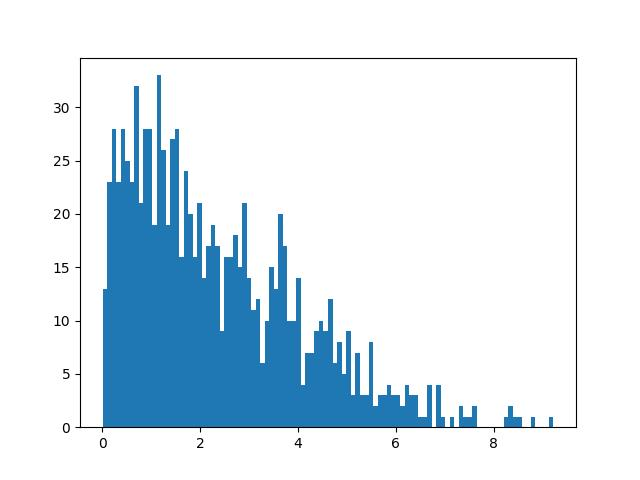
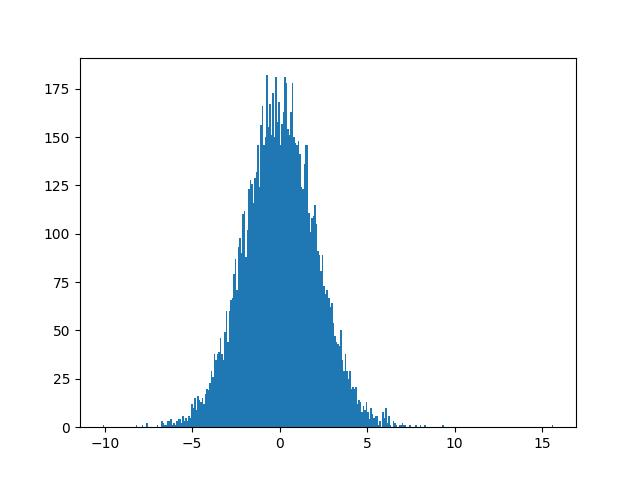
done?

diff --git a/KalmanFilter/plot.py b/KalmanFilter/plot.py
@@ -3,6 +3,7 @@ import matplotlib.pyplot as plt
 from matplotlib.patches import Ellipse
 import matplotlib.transforms as transforms
 import os
+import imageio
 
 
 def plot_uncertainty_ellipse(μ_list, Σ_list, N=100):
@@ -58,12 +59,68 @@ def plot_uncertainty_ellipse(μ_list, Σ_list, N=100):
 def plot_histogram(fname, μ, N):
     if not os.path.exists('./drone1dplots'): os.mkdir('./drone1dplots')
 
-    print(μ.shape)
     μ = np.reshape(μ, (N,))
 
     # plt.set_xlabel('absolute value of error')
     # plt.set_ylabel('')
 
-    plt.hist(μ, 100)
+    # binwidth = 0.5
+    plt.hist(μ, 300)
     plt.savefig(fname)
     plt.show()
+
+
+def plot_2d(x, μ, Σ, t, fname):
+    if not os.path.exists('./drone2dplots'): os.mkdir('./drone2dplots')
+
+    fig, ax = plt.subplots(figsize=(6, 6))
+
+    ax.set_ylim(-5, 5)
+    ax.set_xlim(-5, 5)
+
+    μ = np.reshape(μ[0:2], (2,))
+    Σ = np.reshape(Σ[0:2,0:2], (2,2))
+
+    dataset = np.random.multivariate_normal(np.reshape(μ, (2,)), Σ, 100)
+
+    x1 = dataset[:, 0]
+    y = dataset[:, 1]
+
+    pts = ax.scatter(x1, y, s=0.5)
+
+    ax.scatter(x[0], x[1], s=5, color='blue', label='TruePosition')
+    ax.scatter(μ[0], μ[1], s=5, color='black', label='EstimatedMean')
+
+    ax.set_xlabel(r'$x_t$')
+    ax.set_ylabel(r'$y_t$')
+    # ax.set_title('Uncertainty Ellipses')
+
+    pearson = Σ[0, 1]/np.sqrt(Σ[0, 0] * Σ[1, 1])
+    ell_radius_x = np.sqrt(1 + pearson)
+    ell_radius_y = np.sqrt(1 - pearson)
+
+    ellipse = Ellipse((0, 0), width=ell_radius_x*2, height=ell_radius_y*2, facecolor='none', label='UncertaintyEllipse at t=%d'%t, edgecolor='red')
+
+    scale_x = np.sqrt(Σ[0][0])
+    scale_y = np.sqrt(Σ[1][1])
+    mean_x = μ[0]
+    mean_y = μ[1]
+
+    transf = transforms.Affine2D() \
+                    .rotate_deg(45) \
+                    .scale(scale_x, scale_y) \
+                    .translate(mean_x, mean_y)
+
+    ellipse.set_transform(transf + ax.transData)
+    # print(dataset.shape)
+    pts.set_visible(False)
+    ax.add_patch(ellipse)
+    plt.savefig(fname)
+    plt.show()
+
+
+def create_gif(file_list):
+    with imageio.get_writer('./drone2dplots/x_y.gif', mode='I') as writer:
+        for filename in file_list:
+            image = imageio.imread(filename)
+            writer.append_data(image)

diff --git a/KalmanFilter/drone2d.py b/KalmanFilter/drone2d.py
@@ -1,15 +1,44 @@
 from kalman import KalmanFilter
+from plot import plot_2d, create_gif
 import numpy as np
+import matplotlib.pyplot as plt
 
 
 if __name__ == '__main__':
-    A = np.array([[1, 0, 0.5, 0], [0, 1, 0, 0.5], [0, 0, 1, 0], [0, 0, 0, 1]], dtype=np.float32)
-    B = np.array([[0.5, 0, 1, 0], [0, 0.5, 0, 1]], dtype=np.float32)
-    R = np.dot(np.array([[0.5, 0, 1, 0], [0, 0.5, 0, 1]]), np.array([[0.5, 0, 1, 0], [0, 0.5, 0, 1]]).T)
-    C = np.array([[1], [1], [0], [0]], dtype=np.float32)
-    Q = np.array()
+    A = np.array([[1, 0, 1, 0], [0, 1, 0, 1], [0, 0, 1, 0], [0, 0, 0, 1]], dtype=np.float32)
+    B = np.array([[0.5, 0], [0, 0.5], [1, 0], [0, 1]], dtype=np.float32)
+    R = np.dot(np.array([[0.5, 0], [0, 0.5], [1, 0], [0, 1]]), np.array([[0.5, 0], [0, 0.5], [1, 0], [0, 1]]).T)
+    C = np.array([[1, 0, 0, 0], [0, 1, 0, 0]], dtype=np.float32)
+    Q = np.eye(2)*8
 
     kf = KalmanFilter(A, B, R, C, Q)
 
+    μ = np.zeros((4,1), dtype=np.float32)
+    Σ = np.zeros((4,4), dtype=np.float32)
+
+    x = np.zeros((4,1), dtype=np.float32)
+
+    file_list = []
+
+    # fig, ax = plt.subplots(figsize=(6, 6))
+
     for t in range(1, 31):
-        pass
+        μ_hat, Σ_hat = kf.predict(μ, Σ)
+
+        noise = np.random.normal(0, 1, 2)
+        x[0] += 0.5*noise[0]
+        x[1] += 0.5*noise[1]
+        x[2] += noise[0]
+        x[3] += noise[1]
+
+        z = kf.sense(x)
+        μ, Σ = kf.measure(μ_hat, Σ_hat, z)
+
+        plot_2d(x, μ, Σ,t, './drone2dplots/t=%d.jpg'%t)
+        file_list.append('./drone2dplots/t=%d.jpg'%t)
+
+        print(x)
+        print(z)
+    # plt.savefig('./drone2dplots/2d.jpg')
+    # plt.show()
+    create_gif(file_list)

diff --git a/KalmanFilter/drone1d.py b/KalmanFilter/drone1d.py
@@ -12,12 +12,12 @@ def sample_with_failure(kf, p=0):
     for t in range(1, 21):
         μ, Σ = kf.predict(μ, Σ)
         # z = kf.sense(μ)
-        x += np.ones((2,1), dtype=np.float32)*np.random.normal(0, 1)
+        x += np.array([[0.5], [1]], dtype=np.float32)*np.random.normal(0, 1)
         if np.random.rand() > p: 
             z = kf.sense(x)
             μ, Σ = kf.measure(μ, Σ, z)
     
-    return abs(z-x[0])
+    return x[0]-μ[0]
 
 
 if __name__ == '__main__':
@@ -71,15 +71,15 @@ if __name__ == '__main__':
 
     # Q2.3
     print('Q2.3:')
-    p_list = [0, 0.1, 0.5, 0.9]
-    N = 1000
+    p_list = [0.1, 0.5, 0.9]
+    N = 10000
     for p in p_list:
         samples = []
         for n in range(N):
             samples.append(sample_with_failure(kf, p))
         samples = np.array(samples)
         print(np.mean(samples))
-        samples = np.abs(samples)
+        # samples = np.abs(samples)
         plot_histogram('./drone1dplots/p_failure=%f.jpg'%p, samples, N)
 
 

diff --git a/KalmanFilter/kalman.py b/KalmanFilter/kalman.py
@@ -34,8 +34,7 @@ class KalmanFilter:
     def sense(self, x):
         assert isinstance(x, np.ndarray)
         assert self.C.shape[1] == x.shape[0]
-
-        z = np.dot(self.C, x)+np.random.multivariate_normal(mean=np.zeros((self.C.shape[0])), cov=self.Q)
+        z = np.dot(self.C, x)+np.reshape(np.random.multivariate_normal(mean=np.zeros((self.C.shape[0])), cov=self.Q), (-1,1))
         return z
 
     def measure(self, μ_hat, Σ_hat, z):
